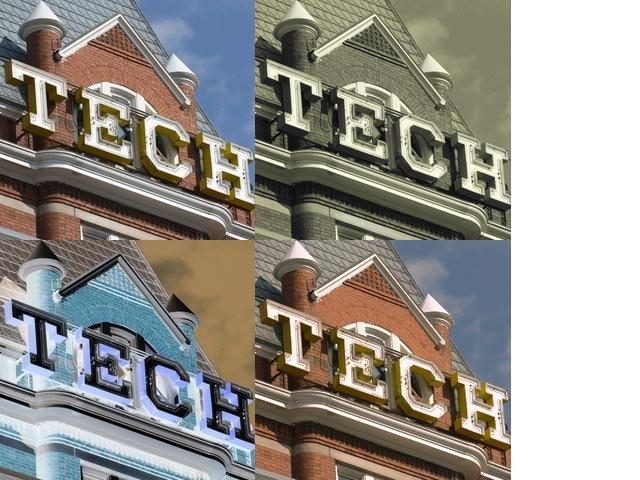
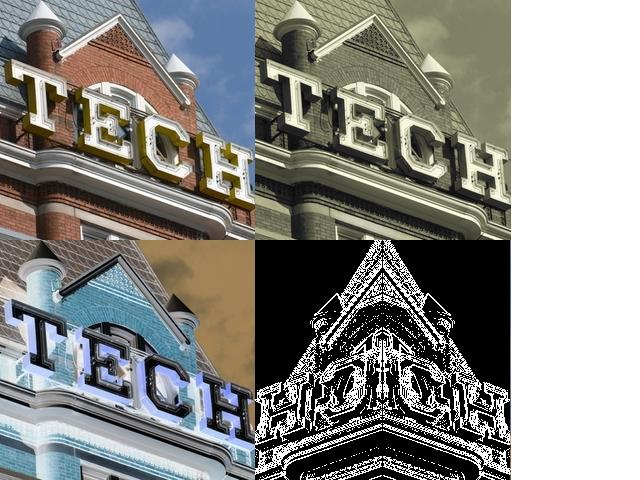
finish Collage

Changed region(s): [[0.375, 0.5, 0.8125, 1.0]]

diff --git a/PictureLab/classes/Picture.java b/PictureLab/classes/Picture.java
@@ -4,6 +4,7 @@ import java.awt.geom.*;
 import java.awt.image.BufferedImage;
 import java.text.*;
 import java.util.*;
+import java.awt.Color;
 import java.util.List; // resolves problem with java.awt.List and java.util.List
 
 /**
@@ -194,7 +195,6 @@ public class Picture extends SimplePicture
       Pixel sourcePixel = null;
       Pixel destPixel = null;
       
-      //this.cropAndCopy(gtech,16,256,0,256,0,0);
       
       for(int row = startSourceRow; row<= endSourceRow; row++)
       {
@@ -218,41 +218,23 @@ public class Picture extends SimplePicture
       Pixel[][] pixels = this.getPixels2D();
       int height = this.getHeight();
       int width = this.getWidth();
-      Picture canvas = new Picture(height/2, width/2);
       
-      Pixel[][] destPixels = canvas.getPixels2D();
+      Pixel[][] destPixels = this.getPixels2D();
       Pixel sourcePixel = null;
+      Pixel destPixel = null;
       
-      int redTotal = 0;
-      int greenTotal = 0;
-      int blueTotal = 0;
-      int count = 0;
-      
+      Picture canvas = new Picture(height/2, width/2);
+
       for(int row=0; row<pixels.length; row++)
       {
           for(int col = 0; col<pixels[0].length; col++)
           {
               sourcePixel = pixels[row][col];
-              redTotal = sourcePixel.getRed();
-              greenTotal = sourcePixel.getGreen();
-              blueTotal = sourcePixel.getBlue();
-              count++;
-              if(count == 3)
-              {
-                  int avgRed = redTotal / 3;
-                  int avgGreen = greenTotal / 3;
-                  int avgBlue = blueTotal / 3;
-                  redTotal = 0;
-                  greenTotal = 0;
-                  blueTotal = 0;
-                  destPixels[row/2][col/2].setRed(avgRed);
-                  destPixels[row/2][col/2].setBlue(avgBlue);
-                  destPixels[row/2][col/2].setGreen(avgGreen);
-                  count = 0;
-              }
+              destPixel = destPixels[row/2][col/2];
+              destPixel.setColor(sourcePixel.getColor());
           }
       }
-      canvas.cropAndCopy(this, 0,0,height,width, 0,0);
+      canvas.cropAndCopy(this, 0,0,height/2,width/2, 0,0);
       return canvas;
   }
   
@@ -281,16 +263,15 @@ public class Picture extends SimplePicture
    */
   public void mirrorVerticalRightToLeft()
   {
-    Pixel[][] pixels = this.getPixels2D();
     Pixel leftPixel = null;
     Pixel rightPixel = null;
-    int width = pixels[0].length;
-    for (int row = 0; row < pixels.length; row++)
+    int width = this.getWidth();
+    for (int row = 0; row < this.getHeight(); row++)
     {
       for (int col = 0; col < width / 2; col++)
       {
-        leftPixel = pixels[row][col];
-        rightPixel = pixels[row][width - 1 - col];
+        leftPixel = this.getPixel(col, row);
+        rightPixel = this.getPixel(width - 1 - col, row);
         leftPixel.setColor(rightPixel.getColor());
       }
     } 
@@ -460,29 +441,27 @@ public class Picture extends SimplePicture
     Picture gtech2 = new Picture("GeorgiaTech.jpg");
     Picture gtech3 = new Picture("GeorgiaTech.jpg");
     Picture gtech4 = new Picture("GeorgiaTech.jpg");
+    Picture bee = new Picture("YellowJacket.jpg");
     
     this.cropAndCopy(gtech,16,255,0,255,0,0);   //original image
     
     gtech2.grayscale();
     gtech2.sepia();
+    gtech4.mirrorVerticalRightToLeft();
     this.cropAndCopy(gtech2,16,255,0,255,0,255);
     
     gtech3.negate();
     this.cropAndCopy(gtech3,16,255,0,255,240,0);
     
     gtech4.moreRed();
-    //gtech4.mirrorVerticalRightToLeft();
+    gtech4.edgeDetection(25);
     this.cropAndCopy(gtech4,16,255,0,255,240,255);
     
-    /*
-     * Possible modifications:
-     *      - sepia
-     *      - edge detection
-     *      - 
-     */
+    this.cropAndCopy(bee, 5, 5, 310, 130, 0, 515);
     
     this.write("collage.jpg");
   }
+  
   
   /**
    * Applies the sepia filter onto an image
@@ -555,11 +534,16 @@ public class Picture extends SimplePicture
         leftPixel = pixels[row][col];
         rightPixel = pixels[row][col+1];
         rightColor = rightPixel.getColor();
+        double avgLeft = leftPixel.getAverage();
+        double avgRight = rightPixel.getAverage();
+        
+        double distance = Math.abs(avgLeft - avgRight);
+        
         if (leftPixel.colorDistance(rightColor) > 
             edgeDist)
-          leftPixel.setColor(Color.BLACK);
-        else
           leftPixel.setColor(Color.WHITE);
+        else
+          leftPixel.setColor(Color.BLACK);
       }
     }
   }
